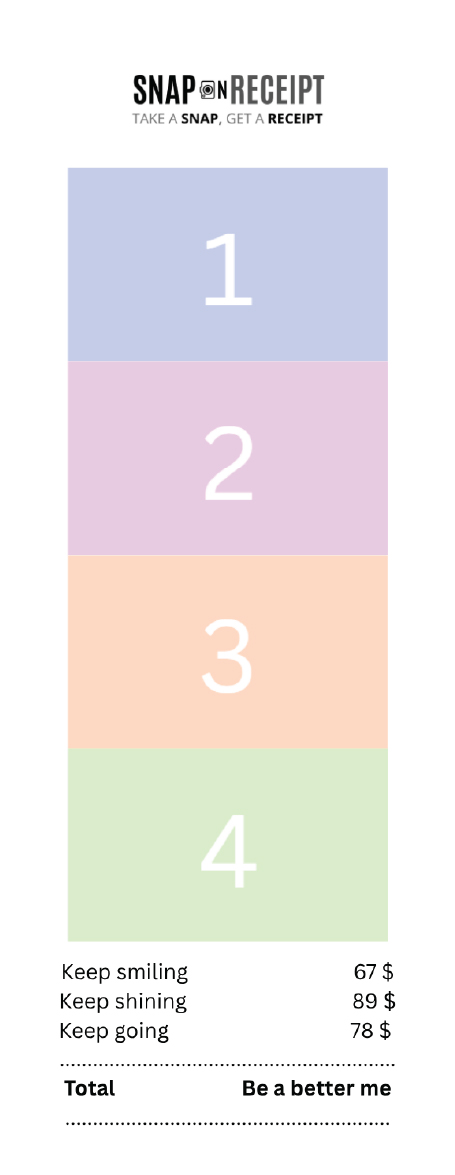
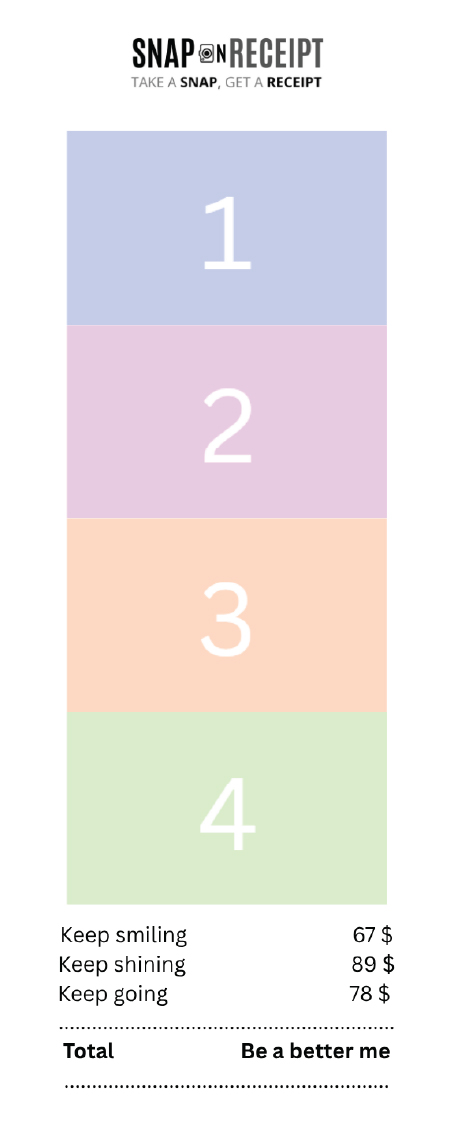
Align Snap frame photo slots and sync admin URL with booth id.
Calibrate layout1/2/4 and layout2-1 slots to artwork placeholders and keep admin paths on /admin/:boothId when switching booths.

Changed region(s): [[0.1233, 0.0312, 0.8634, 0.3119], [0.1233, 0.7799, 0.8634, 0.967], [0.1542, 0.3431, 0.8634, 0.5927]]

diff --git a/frontend/admin/js/admin.js b/frontend/admin/js/admin.js
@@ -108,6 +108,67 @@
     return candidate;
   }
 
+  function getAdminBasePath() {
+    const parts = window.location.pathname.split("/").filter(Boolean);
+    const adminIndex = parts.indexOf("admin");
+    if (adminIndex === -1) return "/admin";
+    return `/${parts.slice(0, adminIndex + 1).join("/")}`;
+  }
+
+  function buildAdminBoothUrl(boothId) {
+    const id = String(boothId || "")
+      .trim()
+      .toLowerCase();
+    if (!id || !/^[a-z0-9][a-z0-9_-]{0,63}$/.test(id)) {
+      return `${getAdminBasePath()}/`;
+    }
+    return `${getAdminBasePath()}/${encodeURIComponent(id)}`;
+  }
+
+  function syncAdminPathBoothId(boothId, { replace = true } = {}) {
+    const nextPath = buildAdminBoothUrl(boothId);
+    const normalize = (path) => path.replace(/\/+$/, "") || "/";
+    if (normalize(window.location.pathname) === normalize(nextPath)) {
+      state.pathBoothId = readBoothIdFromPath();
+      return;
+    }
+
+    const nextUrl = `${nextPath}${window.location.search}${window.location.hash}`;
+    if (replace) {
+      history.replaceState({ adminBoothId: boothId }, "", nextUrl);
+    } else {
+      history.pushState({ adminBoothId: boothId }, "", nextUrl);
+    }
+    state.pathBoothId = readBoothIdFromPath();
+    if (state.pathBoothId) {
+      state.paymentBoothId = state.pathBoothId;
+    }
+    updateBoothScopeUi();
+  }
+
+  function clearAdminPathBoothScope() {
+    if (isBoothScopedAdmin()) return;
+
+    const basePath = getAdminBasePath();
+    const normalize = (path) => path.replace(/\/+$/, "") || "/";
+    if (normalize(window.location.pathname) === normalize(basePath)) {
+      state.pathBoothId = null;
+      return;
+    }
+
+    history.replaceState({}, "", `${basePath}/${window.location.search}${window.location.hash}`);
+    state.pathBoothId = null;
+    updateBoothScopeUi();
+  }
+
+  function applyAdminPathBoothScope() {
+    const boothId = isBoothScopedAdmin()
+      ? getSessionBoothId()
+      : state.pathBoothId || state.boothDetailId || null;
+    if (!boothId) return;
+    syncAdminPathBoothId(boothId, { replace: true });
+  }
+
   function getSessionBoothId() {
     if (memoryBoothId) return memoryBoothId;
     try {
@@ -698,6 +759,7 @@
 
   function showBoothsListPanel() {
     state.boothDetailId = null;
+    clearAdminPathBoothScope();
     const listPanel = $("#booths-list-panel");
     const detailPanel = $("#booth-detail-panel");
     if (listPanel) listPanel.hidden = false;
@@ -706,6 +768,9 @@
 
   async function showBoothDetail(boothId) {
     state.boothDetailId = boothId;
+    if (!isBoothScopedAdmin()) {
+      syncAdminPathBoothId(boothId, { replace: false });
+    }
     const listPanel = $("#booths-list-panel");
     const detailPanel = $("#booth-detail-panel");
     if (listPanel) listPanel.hidden = true;
@@ -1026,9 +1091,12 @@
 
     const loginDesc = $("#admin-login-desc");
     if (loginDesc) {
-      loginDesc.textContent = state.pathBoothId
-        ? `เข้าสู่ระบบ booth: ${state.pathBoothId} (username = booth id)`
-        : "เข้าสู่ระบบด้วย booth id หรือ admin (super)";
+      if (state.pathBoothId) {
+        loginDesc.textContent = `เข้าสู่ระบบ booth: ${state.pathBoothId} (username = booth id)`;
+      } else {
+        loginDesc.textContent =
+          `เข้าสู่ระบบด้วย booth id หรือ admin (super) — ลิงก์ตู้: ${buildAdminBoothUrl("snap-on-receipt")}`;
+      }
     }
 
     const brandSubtitle = $("#admin-sidebar-booth");
@@ -1861,6 +1929,7 @@
         }
       })(),
     });
+    applyAdminPathBoothScope();
     updateBoothScopeUi();
     showApp();
     showAdminView("dashboard");
@@ -2011,7 +2080,11 @@
 
     $("#payment-booth-select")?.addEventListener("change", () => {
       state.boothPaymentLoadedFor = "";
-      syncBoothSelectValues(getSelectedPaymentBoothId());
+      const boothId = getSelectedPaymentBoothId();
+      syncBoothSelectValues(boothId);
+      if (!isBoothScopedAdmin()) {
+        syncAdminPathBoothId(boothId, { replace: true });
+      }
       if (state.view === "dashboard") {
         refresh().catch(console.error);
         return;
@@ -2108,6 +2181,23 @@
       loadBoothsAdmin().catch(console.error);
     });
 
+    window.addEventListener("popstate", () => {
+      state.pathBoothId = readBoothIdFromPath();
+      if (state.pathBoothId) {
+        state.paymentBoothId = state.pathBoothId;
+        syncBoothSelectValues(state.pathBoothId);
+      }
+      updateBoothScopeUi();
+      if (!getApiKey()) return;
+      if (state.view === "payment") {
+        loadPaymentAdmin().catch(console.error);
+        return;
+      }
+      if (state.view === "dashboard") {
+        refresh().catch(console.error);
+      }
+    });
+
     $("#btn-booth-pairing-code")?.addEventListener("click", () => {
       createBoothPairingCode().catch(console.error);
     });
@@ -2139,6 +2229,10 @@
       clearApiKey();
       showLogin("กรุณา login ใหม่สำหรับ booth นี้");
       return;
+    }
+
+    if (key && isBoothScopedAdmin() && getSessionBoothId() && !state.pathBoothId) {
+      applyAdminPathBoothScope();
     }
 
     setLoginLoading(true);

diff --git a/frontend/js/snap-layout-slots.js b/frontend/js/snap-layout-slots.js
@@ -23,7 +23,7 @@ function snapSlot(left, top, width, height, rotation = 0, overrides = {}) {
 }
 
 /** layout1-5 — portrait photo → rotate 90° and cover the blue placeholder (Calendar) */
-const SNAP_LAYOUT1_5_SLOT = snapSlot(20.55, 4.57, 51.98, 16.38, 90, {
+const SNAP_LAYOUT1_5_SLOT = snapSlot(21.37, 2.37, 50.88, 16.68, 90, {
   fit: "cover",
   expandPct: 0,
 });
@@ -113,14 +113,17 @@ const SNAP_LAYOUT_DEFAULT_SLOTS = {
 /** Per-frame artwork overrides — keyed by layout folder + filename. */
 const SNAP_FRAME_FILE_SLOTS = {
   "layout1/layout1-5.jpg": [SNAP_LAYOUT1_5_SLOT],
-  "layout1/layout1-1.jpg": [snapSlot(12.33, 9.39, 75.11, 38.89, 0, { expandPct: 0.5 })],
-  "layout1/layout1-2.jpg": [snapSlot(10.55, 12.21, 78.9, 49.03, 0, { expandPct: 0.5 })],
+  "layout1/layout1-1.jpg": [snapSlot(11.89, 9.91, 75.99, 41.59, 0, { expandPct: 0 })],
+  /** Bleed + expand — ทับเส้นกรอบม่วง/ฟ้าด้านบนช่องรูป (layout1-2 มี lip บางๆ เหนือ fill) */
+  "layout1/layout1-2.jpg": [
+    snapSlot(10.11, 14.42, 79.78, 58.55, 0, { expandPct: 1.2, noBleed: false }),
+  ],
   "layout1/layout1-3.jpg": [snapSlot(10.35, 33.63, 79.07, 38.54, 0, { expandPct: 0.5 })],
-  "layout1/layout1-4.jpg": [snapSlot(12.09, 29.94, 75.6, 54.08, 0, { expandPct: 0.5 })],
+  "layout1/layout1-4.jpg": [snapSlot(12.09, 31.22, 75.82, 56.84, 0, { expandPct: 0 })],
 
   "layout2/layout2-1.jpg": [
-    snapSlot(11.89, 7.9, 75.99, 23.88, SNAP_LAYOUT2_ROTATION, { expandPct: 0.5 }),
-    snapSlot(11.89, 32.4, 75.99, 23.53, SNAP_LAYOUT2_ROTATION, { expandPct: 0.5 }),
+    snapSlot(11.89, 7.9, 75.99, 23.88, 0, { expandPct: 0 }),
+    snapSlot(12.11, 32.4, 75.77, 23.44, 0, { expandPct: 0 }),
   ],
   "layout2/layout2-2.jpg": [
     snapSlot(9.89, 11.24, 79.78, 33.2, 0, { expandPct: 0.5 }),
@@ -167,10 +170,10 @@ const SNAP_FRAME_FILE_SLOTS = {
   ],
 
   "layout4/layout4-1.jpg": [
-    snapSlot(14.95, 14.3, 70.33, 16.43, 0, { expandPct: 0.5 }),
-    snapSlot(14.95, 30.72, 70.33, 16.6, 0, { expandPct: 0.5 }),
-    snapSlot(14.95, 47.32, 70.33, 16.43, 0, { expandPct: 0.5 }),
-    snapSlot(15.16, 63.74, 70.11, 16.34, 0, { expandPct: 0.5 }),
+    snapSlot(14.54, 11.68, 70.7, 17.29, 0, { expandPct: 1.0, noBleed: false }),
+    snapSlot(14.54, 28.97, 70.7, 17.2, 0, { expandPct: 1.0, noBleed: false }),
+    snapSlot(14.54, 46.17, 70.7, 17.29, 0, { expandPct: 1.0, noBleed: false }),
+    snapSlot(14.54, 63.46, 70.7, 11.41, 0, { expandPct: 1.0, noBleed: false }),
   ],
   "layout4/layout4-2.jpg": [
     snapSlot(16.7, 11.09, 66.37, 21.22, 0, { expandPct: 0.5 }),

diff --git a/frontend/index.html b/frontend/index.html
@@ -498,7 +498,7 @@
     <script src="js/booth-profile.js?v=booth361"></script>
     <script src="js/booth-settings.js?v=booth372"></script>
     <script src="js/booth-storage.js?v=booth190"></script>
-    <script src="js/snap-layout-slots.js?v=booth383"></script>
+    <script src="js/snap-layout-slots.js?v=booth387"></script>
     <script src="js/layouts.js?v=booth366"></script>
     <script src="js/frames.js?v=booth385"></script>
     <script src="js/navigation.js?v=booth365"></script>

diff --git a/frontend/admin/index.html b/frontend/admin/index.html
@@ -547,6 +547,6 @@
       </div>
     </div>
 
-    <script src="/admin/js/admin.js?v=38"></script>
+    <script src="/admin/js/admin.js?v=39"></script>
   </body>
 </html>
